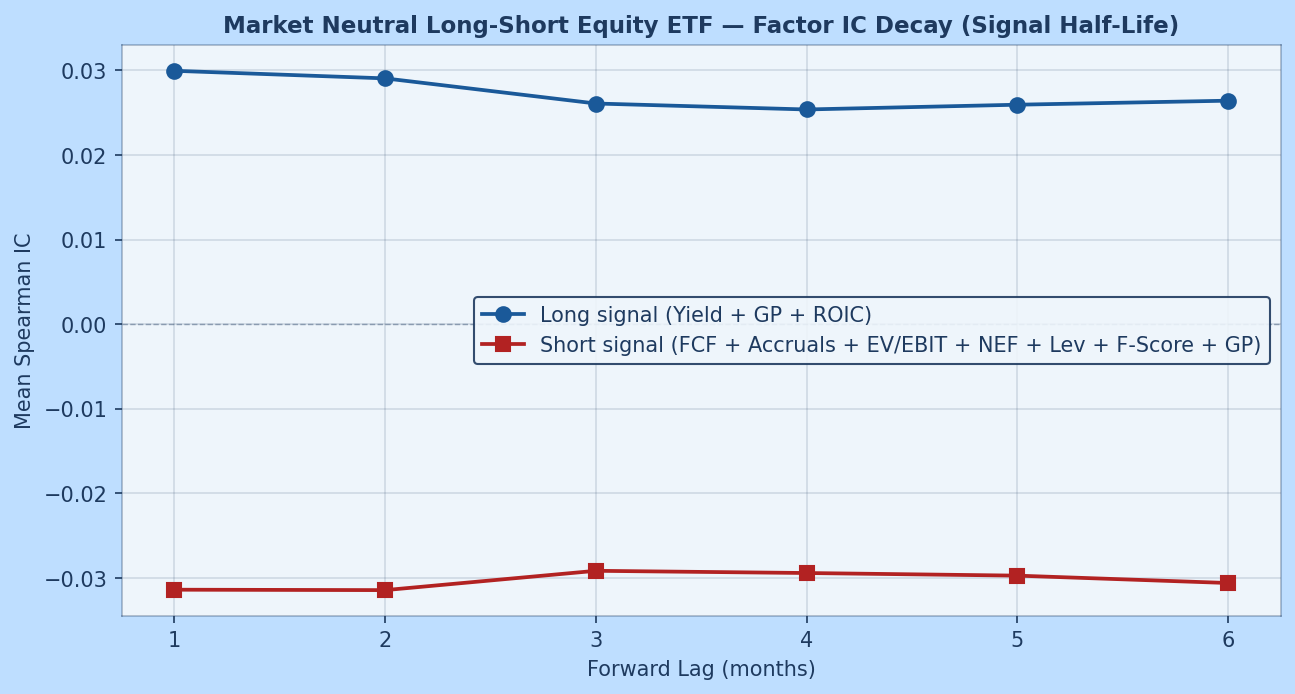
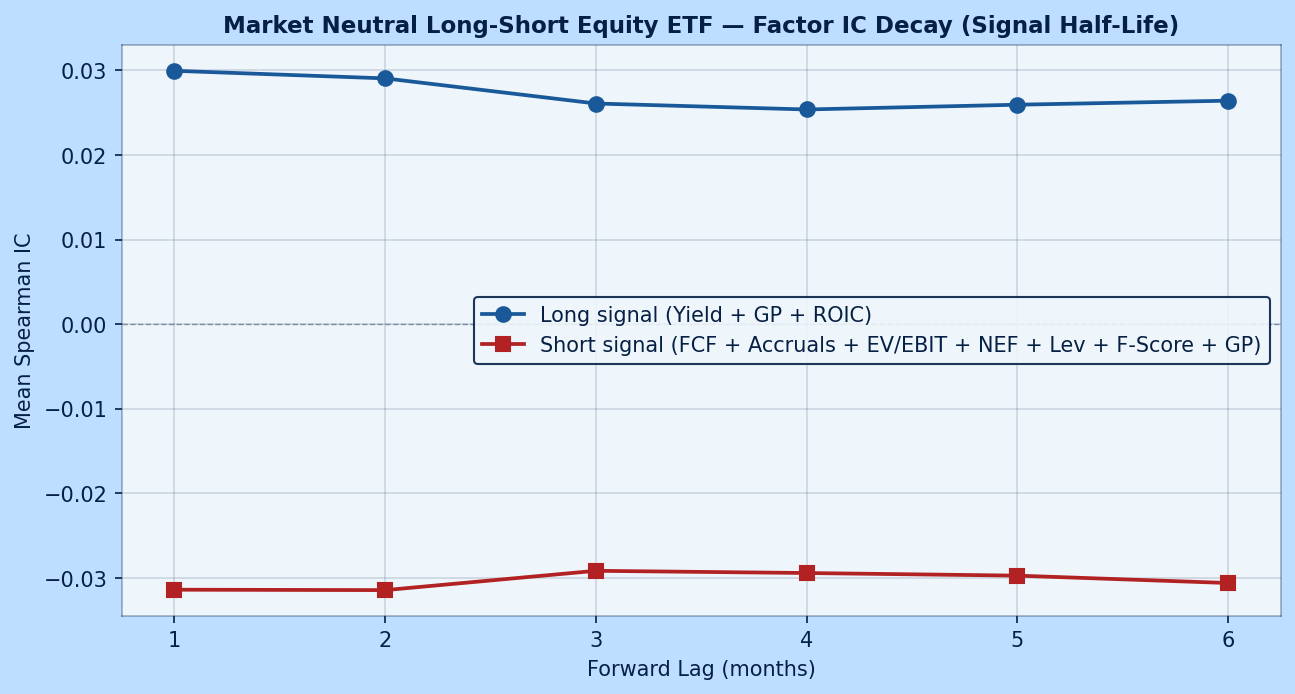
updated formatting on charts

diff --git a/Code/make_plots.py b/Code/make_plots.py
@@ -37,10 +37,10 @@ from backtest import LONG_WEIGHT, N_LONG, N_SHORT, STRATEGY_NAME as STRATEGY, DA
 # ── slide theme ───────────────────────────────────────────────────────────────
 SLIDE_BG  = "#bedeff"   # light blue — matches slide background
 AXES_BG   = "#EEF5FB"   # slightly lighter blue-white for axes interior
-NAVY      = "#1E3A5F"   # dark navy — all text, ticks, labels
+NAVY      = "#062044"   # dark navy — all text, ticks, labels
 C_LONG    = "#1A5999"   # deep blue — long book
 C_SHORT   = "#B22222"   # dark red — short book
-C_STRAT   = "#1E3A5F"   # navy — strategy line
+C_STRAT   = "#042550"   # navy — strategy line
 C_SP500   = "#D4812A"   # warm orange — S&P 500
 C_PURPLE  = "#7030A0"   # purple — misc (beta ratio)
 C_LEVLONG = "#4472C4"   # cornflower blue — levered long
@@ -113,8 +113,8 @@ def plot_cumulative_returns(results, ew_only=False):
     all_axes = [p[0] for p in panels]
     for ax, pfx, title in panels:
         for col, color, lbl, invert in [
-            (f"{pfx}_long",        C_LONG,  f"Long Book (top {N_LONG})",   False),
-            (f"{pfx}_short",       C_SHORT, f"Short Book (top {N_SHORT})", True),
+            (f"{pfx}_long",        C_LONG,  "Long Book",   False),
+            (f"{pfx}_short",       C_SHORT, "Short Book",  True),
             (f"{pfx}_mkt_neutral", C_STRAT, "Market Neutral Strategy",     False),
         ]:
             ret = results[col].dropna()
@@ -216,8 +216,8 @@ def plot_rolling_volatility(results, window=12, ew_only=False):
 
     all_axes = [p[0] for p in panels]
     series = [
-        ("long",        C_LONG,  f"Long Book (top {N_LONG})"),
-        ("short",       C_SHORT, f"Short Book (top {N_SHORT})"),
+        ("long",        C_LONG,  "Long Book"),
+        ("short",       C_SHORT, "Short Book"),
         ("mkt_neutral", C_STRAT, "Market Neutral Strategy"),
     ]
     for ax, pfx, title in panels:
@@ -243,19 +243,19 @@ def plot_return_distributions(results, ew_only=False):
     if ew_only:
         fig, axes = plt.subplots(1, 3, figsize=(15, 5))
         dist_series = [
-            ("ew_mkt_neutral", "Market Neutral (EW)",          C_STRAT),
-            ("ew_long",        f"Long Book (top {N_LONG})",    C_LONG),
-            ("ew_short",       f"Short Book (top {N_SHORT})",  C_SHORT),
+            ("ew_mkt_neutral", "Market Neutral (EW)", C_STRAT),
+            ("ew_long",        "Long Book (EW)",      C_LONG),
+            ("ew_short",       "Short Book (EW)",     C_SHORT),
         ]
     else:
         fig, axes = plt.subplots(2, 3, figsize=(16, 10))
         dist_series = [
-            ("ew_mkt_neutral", "Market Neutral (EW)",            C_STRAT),
-            ("ew_long",        f"Long Book EW (top {N_LONG})",   C_LONG),
-            ("ew_short",       f"Short Book EW (top {N_SHORT})", C_SHORT),
-            ("vw_mkt_neutral", "Market Neutral (VW)",            C_VW_STRAT),
-            ("vw_long",        f"Long Book VW (top {N_LONG})",   "#5B9BD5"),
-            ("vw_short",       f"Short Book VW (top {N_SHORT})", "#E06060"),
+            ("ew_mkt_neutral", "Market Neutral (EW)", C_STRAT),
+            ("ew_long",        "Long Book (EW)",       C_LONG),
+            ("ew_short",       "Short Book (EW)",      C_SHORT),
+            ("vw_mkt_neutral", "Market Neutral (VW)",  C_VW_STRAT),
+            ("vw_long",        "Long Book (VW)",        "#5B9BD5"),
+            ("vw_short",       "Short Book (VW)",       "#E06060"),
         ]
 
     all_axes = list(axes.flat)
@@ -296,8 +296,8 @@ def plot_drawdown(results, ew_only=False):
     all_axes = [p[0] for p in panels]
     series = [
         ("mkt_neutral", C_STRAT, "Market Neutral Strategy"),
-        ("long",        C_LONG,  f"Long Book (top {N_LONG})"),
-        ("short",       C_SHORT, f"Short Book (top {N_SHORT})"),
+        ("long",        C_LONG,  "Long Book"),
+        ("short",       C_SHORT, "Short Book"),
     ]
     for ax, pfx, title in panels:
         for suffix, color, lbl in series:
@@ -329,8 +329,8 @@ def plot_rolling_sharpe(results, window=24, ew_only=False):
     all_axes = [p[0] for p in panels]
     series = [
         ("mkt_neutral", C_STRAT, "Market Neutral Strategy"),
-        ("long",        C_LONG,  f"Long Book (top {N_LONG})"),
-        ("short",       C_SHORT, f"Short Book (top {N_SHORT})"),
+        ("long",        C_LONG,  "Long Book"),
+        ("short",       C_SHORT, "Short Book"),
     ]
     for ax, pfx, title in panels:
         for suffix, color, lbl in series:
